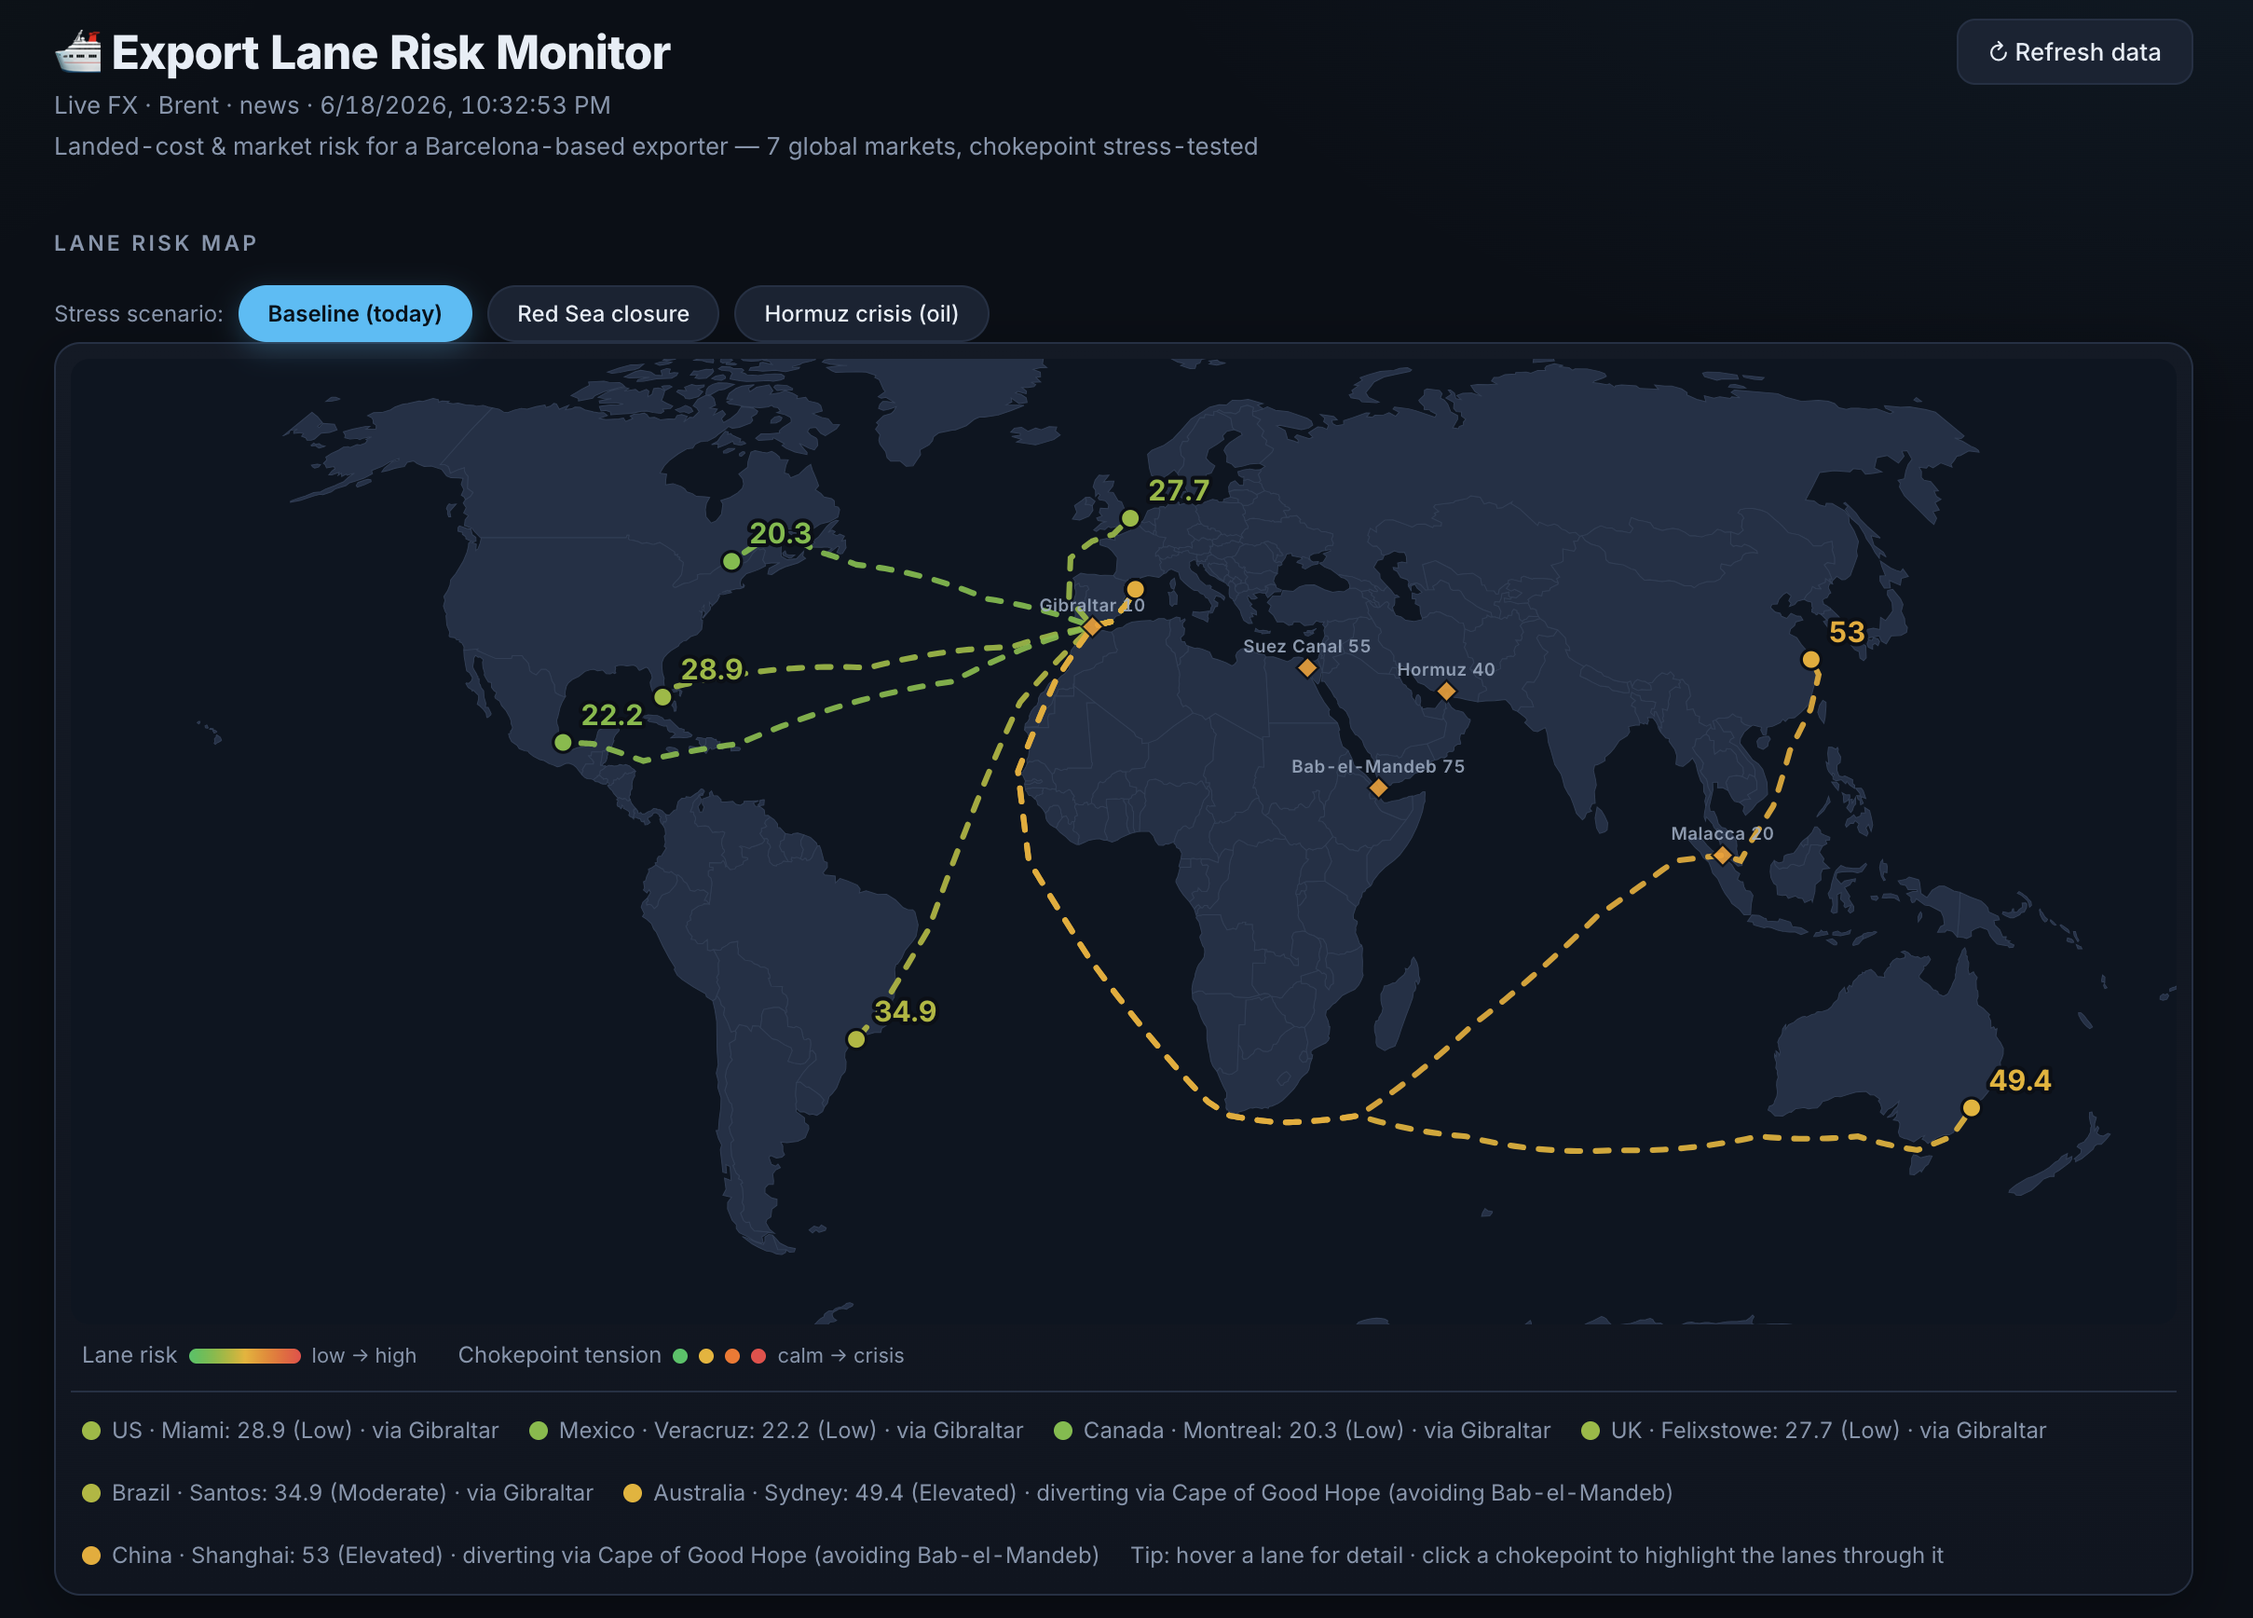
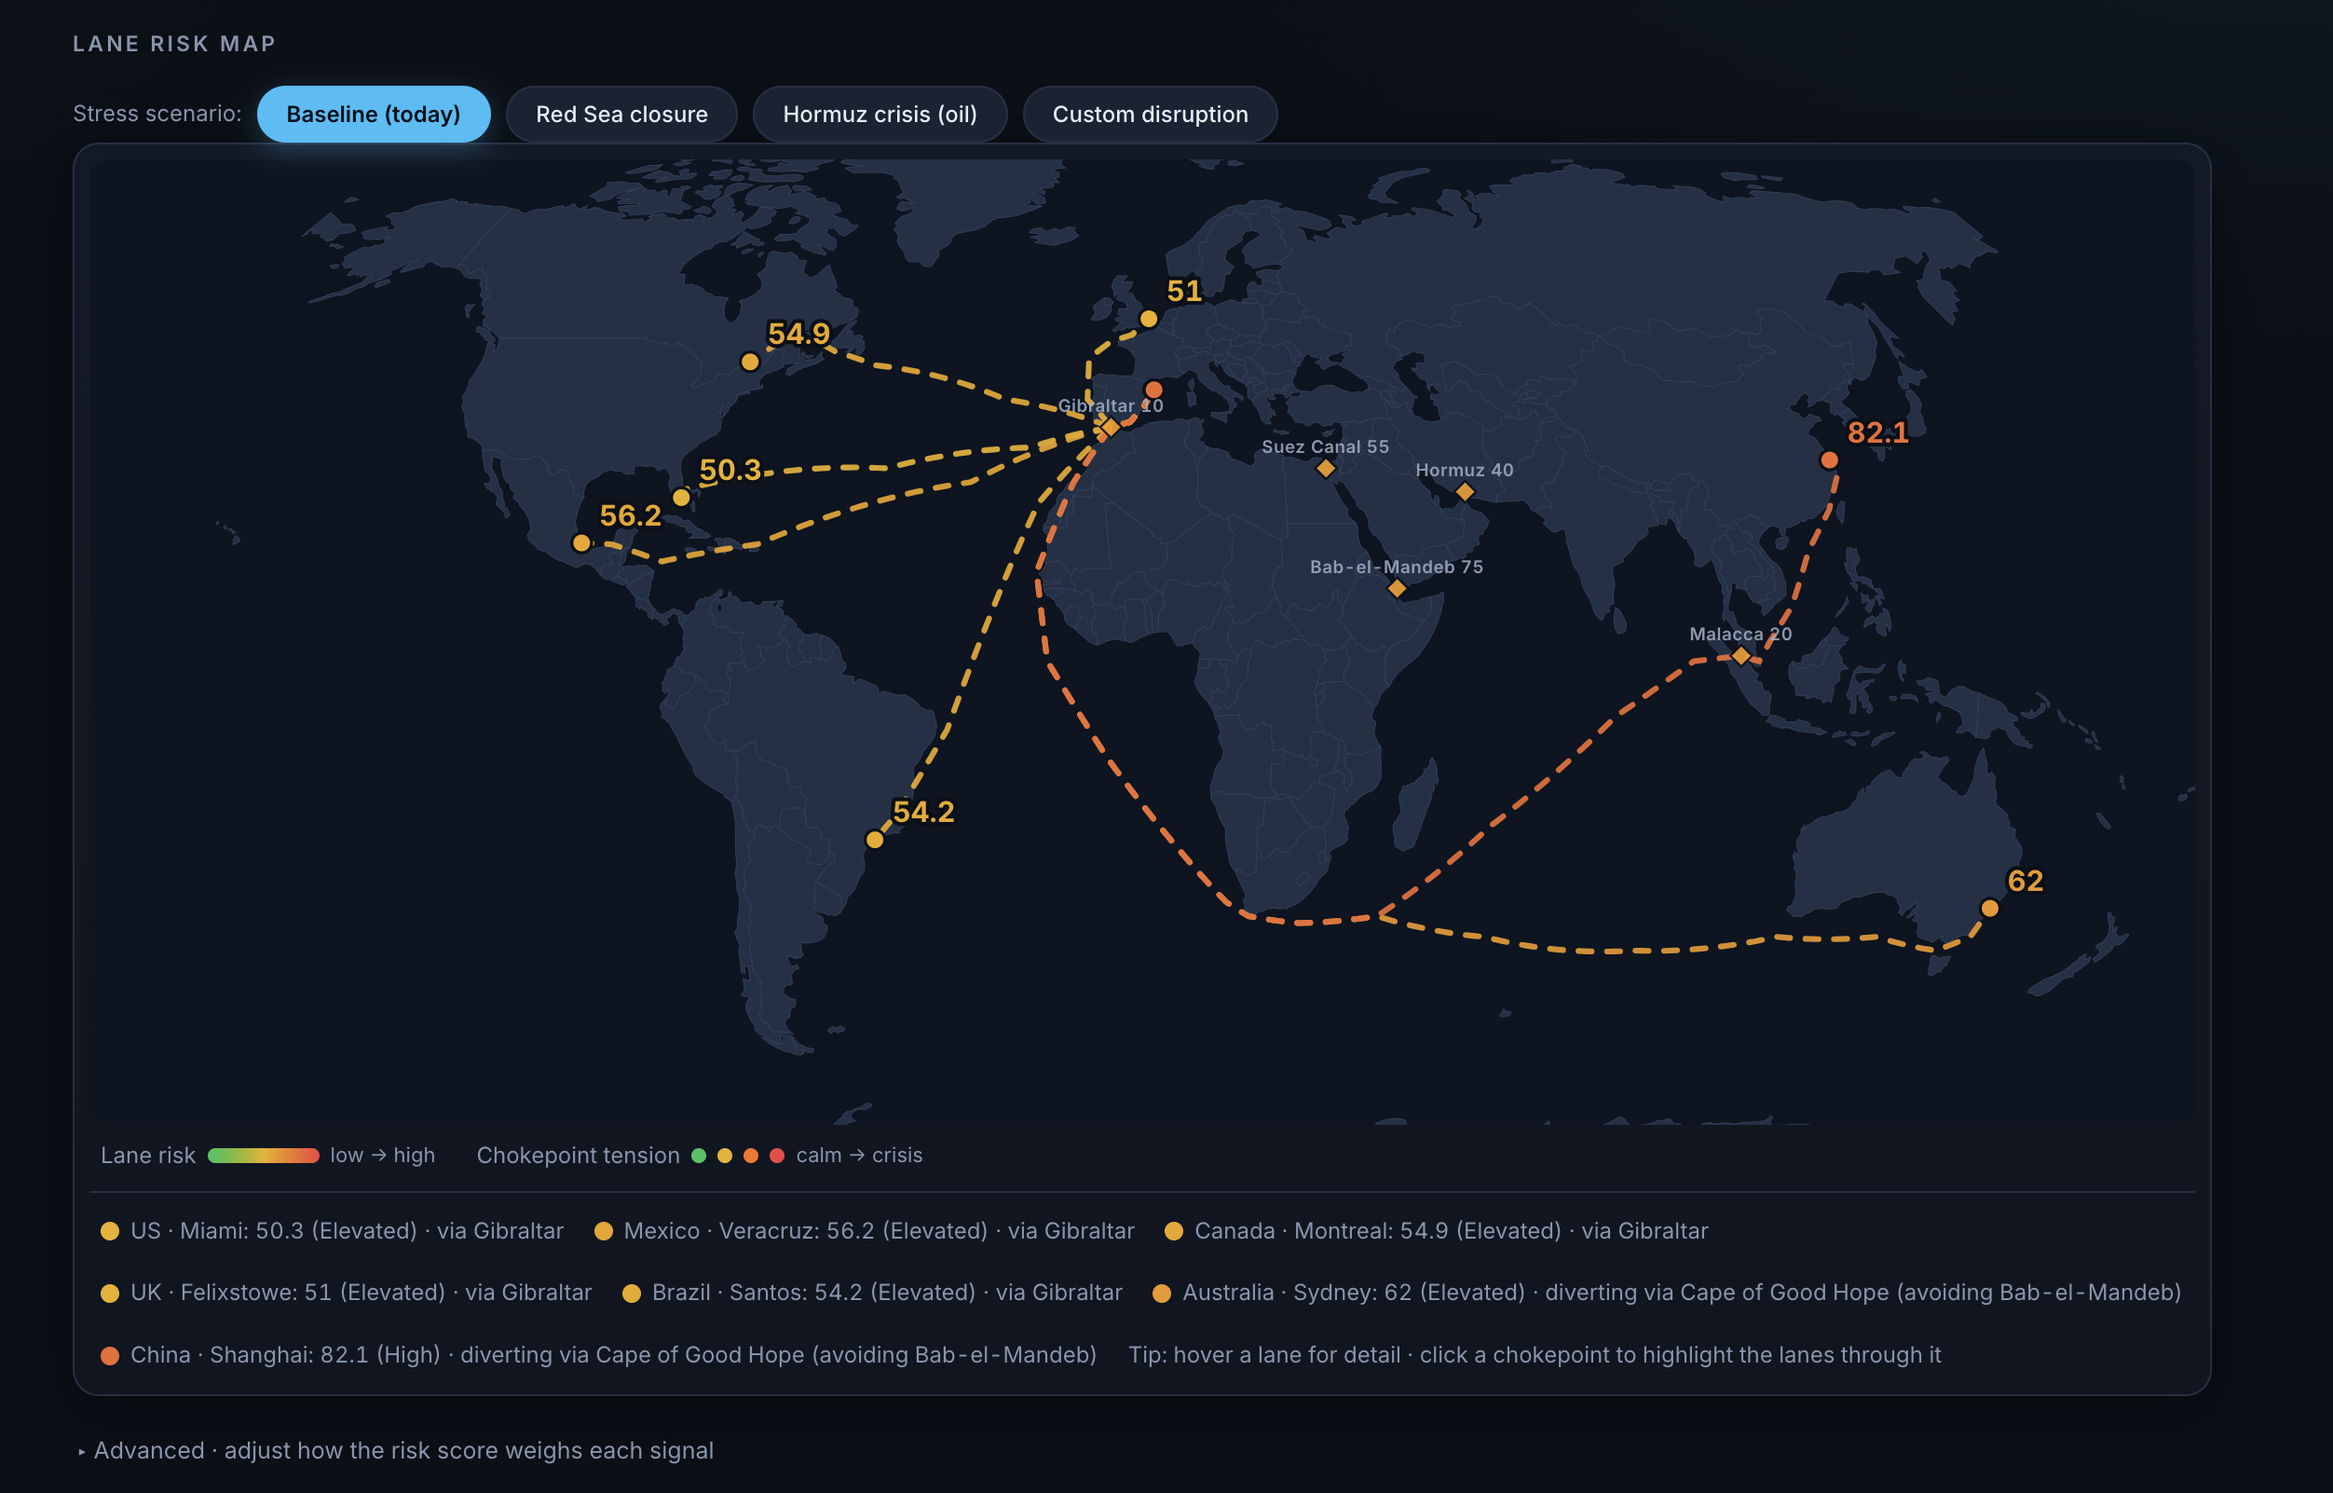
docs: refresh README screenshot and link-preview image
Replace the hero screenshot with the current map-first layout, reuse it
as the og:image for link previews, and drop the outdated Red Sea stress
screenshot (it showed the pre-redesign UI).

diff --git a/README.md b/README.md
@@ -89,10 +89,6 @@ The **scenario selector** recomputes everything live:
 - **Red Sea closure** → Australia & China exposure and reroute cost climb further; Atlantic lanes untouched.
 - **Hormuz crisis (oil)** → cost rises on *all seven* lanes via the feedstock/fuel channel.
 
-![Stress scenario — Red Sea closure](docs/stress-red-sea.png)
-
-<sub>Flipping to a "Red Sea closure" scenario recomputes every lane's risk and cost in place — the Asia-Pacific lanes redden and their reroute premium rises, while the Atlantic lanes are unaffected.</sub>
-
 ## Validation / backtest
 
 `backtest.py` replays the market history in the SQLite store and reconstructs the landed cost per lane for each past day — **on the same basis as the live cards** (baseline chokepoint tensions, so feedstock + reroute premiums are in both; this is why today's live number sits *inside* the reconstructed range rather than above it). It reports:
